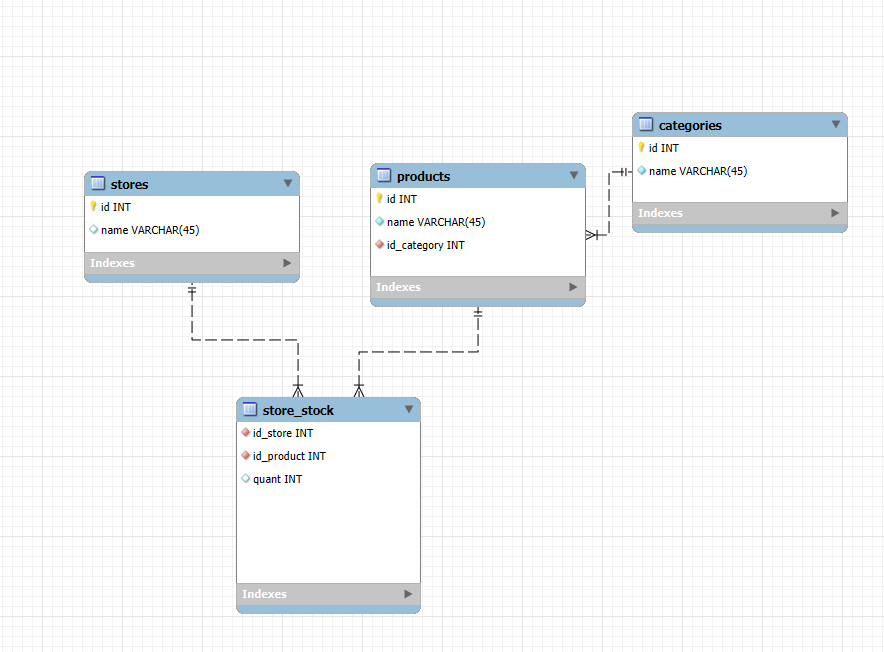
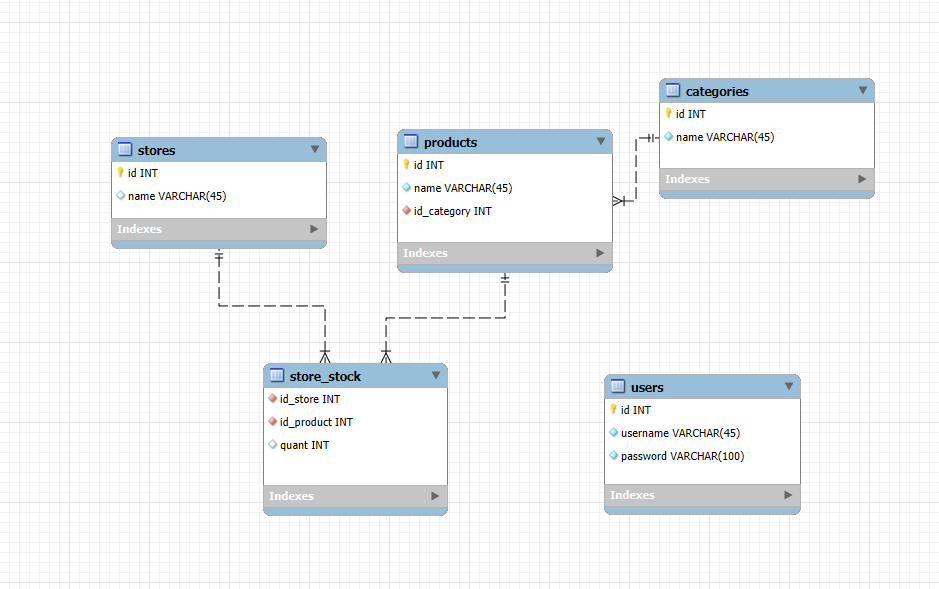
Readme: - Adicionei instroções para criar conteiner do Redis
DB:
- adicionei tabela users

diff --git a/README.md b/README.md
@@ -57,6 +57,7 @@ docker start db_605_mysql
 ## Deploy Redis on Docker
 Links:
 - https://redis.io/docs/latest/operate/oss_and_stack/install/install-stack/docker/
+- https://hub.docker.com/_/redis
 
 Download da Image: (main recente)
 ```sh
@@ -65,9 +66,7 @@ docker pull redis
 
 Criar o Conteiner:
 ```sh
-docker run -d --name redis_docker run -d --name redis_605 -p 6379:6379 redis:letast
-
-docker run -d --name redis_docker -p 6379:6379 redis:latest
+docker run --name db_605_redis -p 6379:6379 -d redis:latest
 ```
 
 <br><br><hr><hr><br><br>
